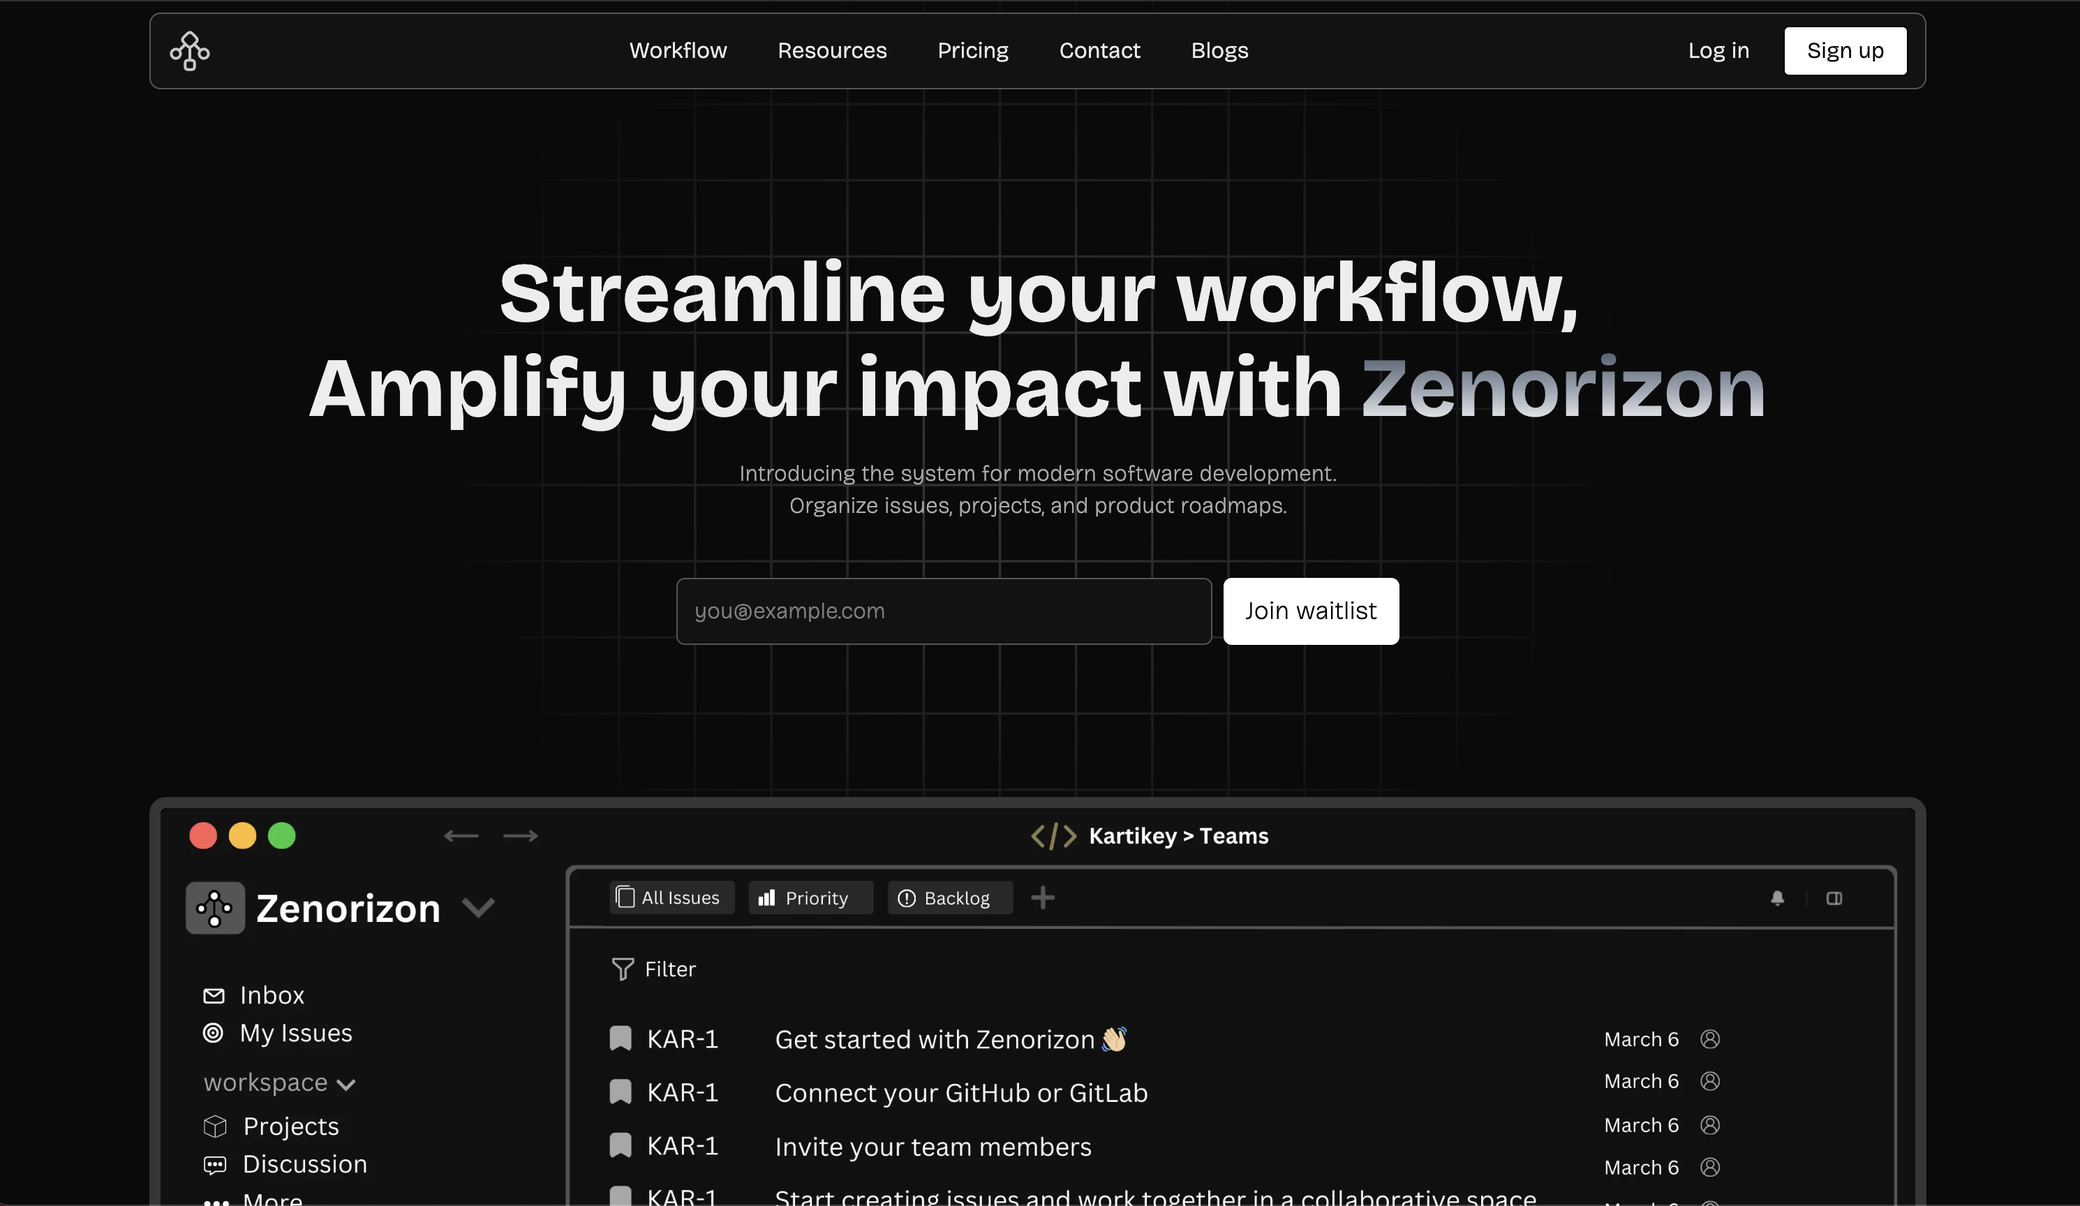
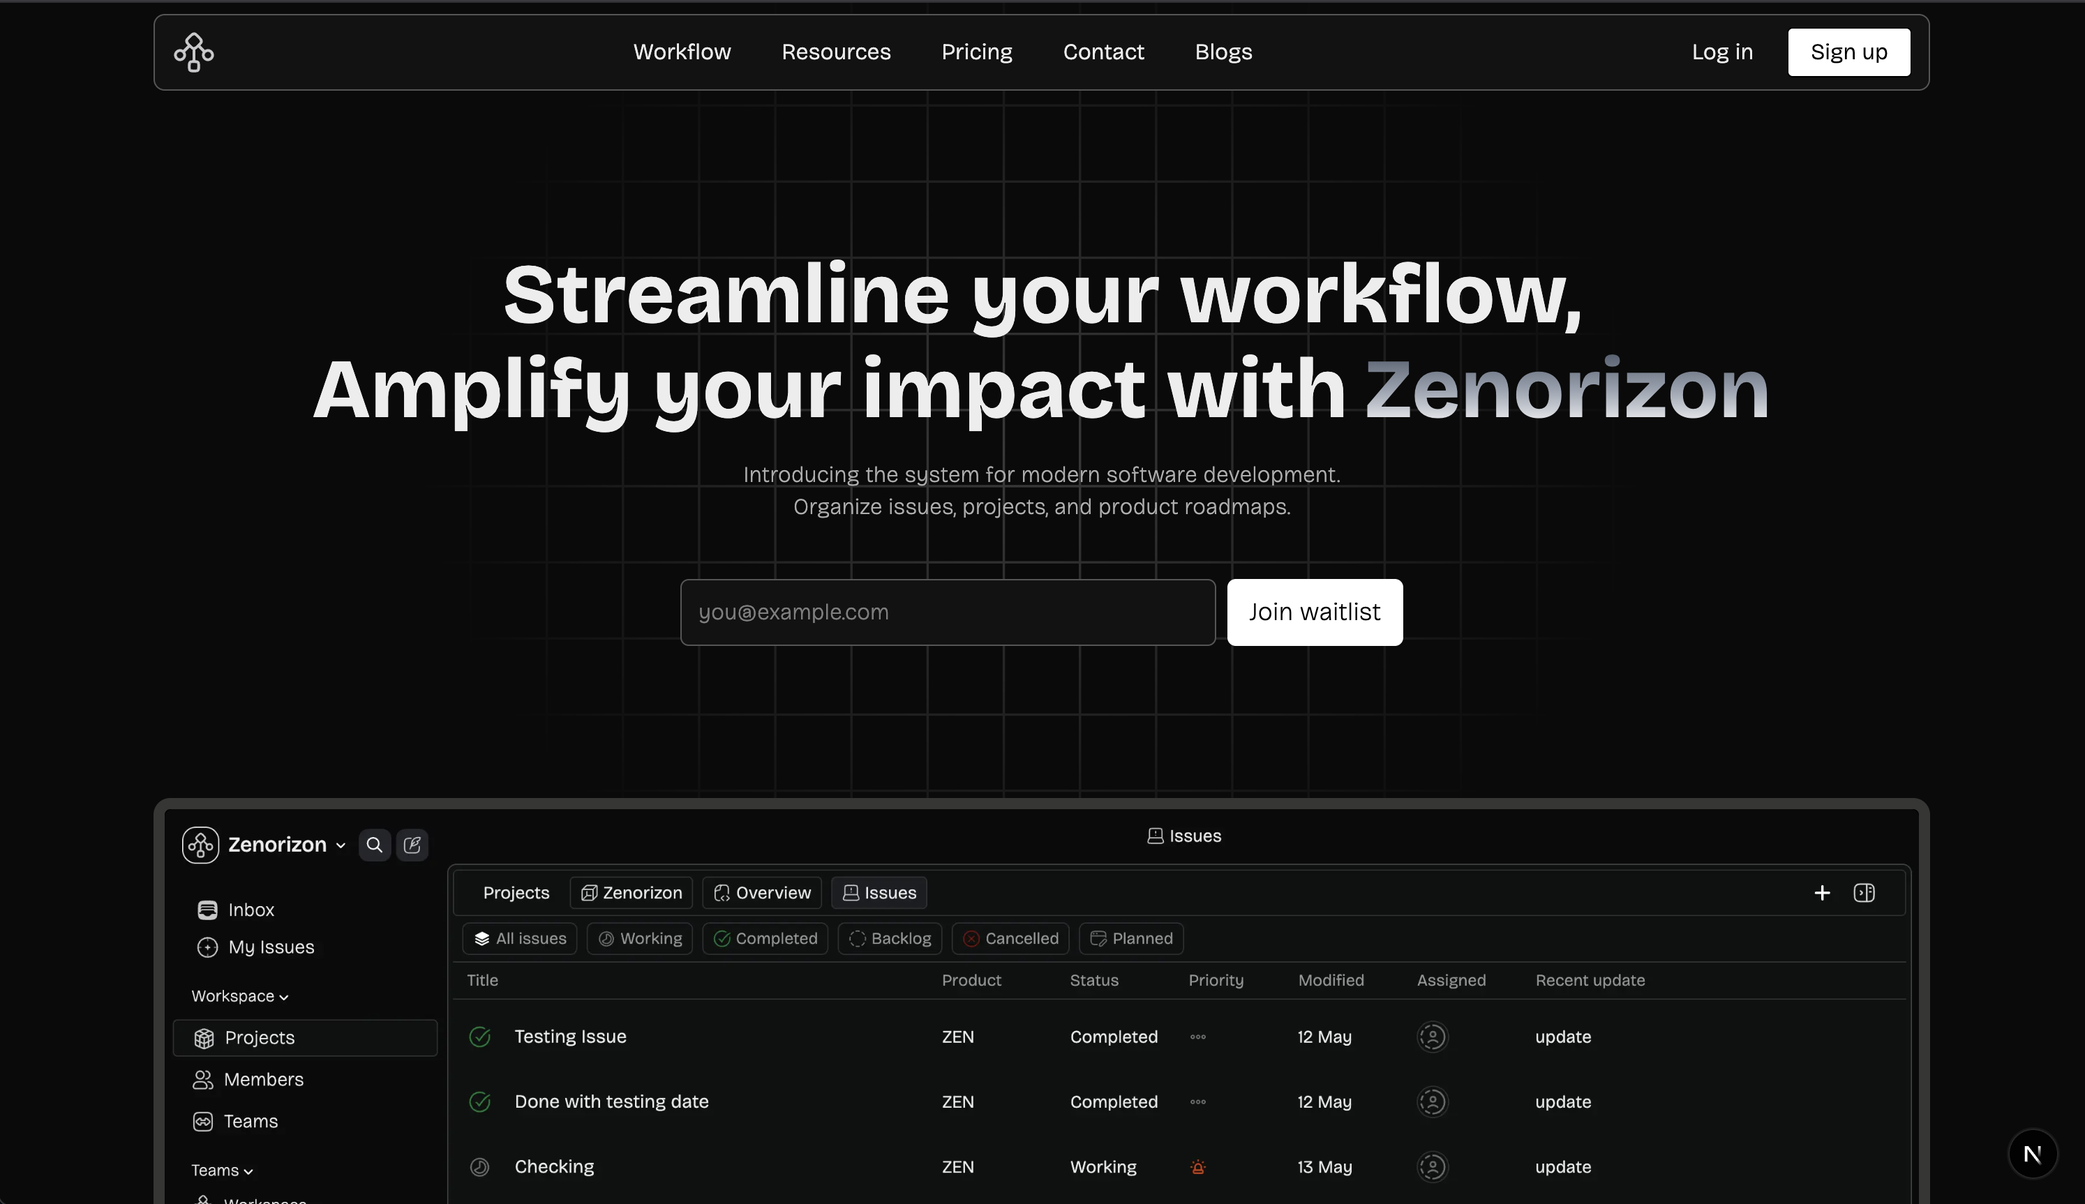
updated OG | modified issues

diff --git a/lib/icons.ts b/lib/icons.ts
@@ -178,8 +178,8 @@ export const RAW_ICONS = {
 
   Logout: `
       <svg width="23" height="22" viewBox="0 0 23 22" fill="none" xmlns="http://www.w3.org/2000/svg">
-        <path d="M2.39062 3.66537C2.39062 2.65284 3.21144 1.83203 4.22396 1.83203H10.6406C11.6531 1.83203 12.474 2.65284 12.474 3.66536V5.4987C12.474 6.00496 12.0636 6.41536 11.5573 6.41536C11.051 6.41536 10.6406 6.00496 10.6406 5.4987V3.66536L4.22396 3.66537V18.332H10.6406V16.4987C10.6406 15.9924 11.051 15.582 11.5573 15.582C12.0636 15.582 12.474 15.9924 12.474 16.4987V18.332C12.474 19.3446 11.6531 20.1654 10.6406 20.1654H4.22396C3.21144 20.1654 2.39062 19.3446 2.39062 18.332V3.66537Z" fill="black"/>
-        <path d="M17.5943 11.9154L15.4924 14.0172C15.1345 14.3752 15.1345 14.9556 15.4924 15.3135C15.8504 15.6715 16.4308 15.6715 16.7888 15.3135L20.3258 11.7765C20.7554 11.3469 20.7554 10.6505 20.3258 10.2209L16.7888 6.68385C16.4308 6.32587 15.8504 6.32587 15.4924 6.68385C15.1345 7.04183 15.1345 7.62223 15.4924 7.98021L17.5943 10.082L7.89063 10.082V11.9154L17.5943 11.9154Z" fill="black"/>
+        <path d="M2.39062 3.66537C2.39062 2.65284 3.21144 1.83203 4.22396 1.83203H10.6406C11.6531 1.83203 12.474 2.65284 12.474 3.66536V5.4987C12.474 6.00496 12.0636 6.41536 11.5573 6.41536C11.051 6.41536 10.6406 6.00496 10.6406 5.4987V3.66536L4.22396 3.66537V18.332H10.6406V16.4987C10.6406 15.9924 11.051 15.582 11.5573 15.582C12.0636 15.582 12.474 15.9924 12.474 16.4987V18.332C12.474 19.3446 11.6531 20.1654 10.6406 20.1654H4.22396C3.21144 20.1654 2.39062 19.3446 2.39062 18.332V3.66537Z" fill="white"/>
+        <path d="M17.5943 11.9154L15.4924 14.0172C15.1345 14.3752 15.1345 14.9556 15.4924 15.3135C15.8504 15.6715 16.4308 15.6715 16.7888 15.3135L20.3258 11.7765C20.7554 11.3469 20.7554 10.6505 20.3258 10.2209L16.7888 6.68385C16.4308 6.32587 15.8504 6.32587 15.4924 6.68385C15.1345 7.04183 15.1345 7.62223 15.4924 7.98021L17.5943 10.082L7.89063 10.082V11.9154L17.5943 11.9154Z" fill="white"/>
       </svg>
   `,
 
@@ -488,4 +488,6 @@ export const RAW_ICONS = {
   InactiveIssue: `<svg xmlns="http://www.w3.org/2000/svg" width="24" height="24" viewBox="0 0 24 24"><path fill="#6c6c6c" fill-rule="evenodd" d="M2.75 12.322c0-5.11 4.14-9.25 9.25-9.25s9.25 4.14 9.25 9.25s-4.14 9.25-9.25 9.25s-9.25-4.14-9.25-9.25M12 1.572c-5.94 0-10.75 4.81-10.75 10.75S6.06 23.072 12 23.072s10.75-4.81 10.75-10.75S17.94 1.572 12 1.572m-1.75 7.75c0-.41-.34-.75-.75-.75s-.75.34-.75.75v6c0 .41.34.75.75.75s.75-.34.75-.75zm5 0c0-.41-.34-.75-.75-.75s-.75.34-.75.75v6c0 .41.34.75.75.75s.75-.34.75-.75z" color="#6c6c6c"/></svg>`,
   PlannedIssue: `<svg xmlns="http://www.w3.org/2000/svg" width="24" height="24" viewBox="0 0 24 24"><path fill="#6c6c6c" d="M13.55 1.75H9.94c-1.83 0-3.29 0-4.43.15c-1.17.16-2.12.49-2.87 1.24S1.56 4.84 1.4 6.01c-.09.67-.12 1.46-.14 2.36c-.01.05-.01.09-.01.13s0 .07.01.1c-.01.57-.01 1.18-.01 1.84v1.12c0 1.83 0 3.29.15 4.43c.16 1.17.49 2.12 1.24 2.87s1.7 1.08 2.87 1.24c1.14.15 2.6.15 4.43.15H10c.41 0 .75-.34.75-.75s-.34-.75-.75-.75c-1.91 0-3.26 0-4.29-.14c-1.01-.14-1.58-.39-2.01-.81c-.42-.43-.67-1-.81-2.01c-.14-1.03-.14-2.38-.14-4.29V9.25h17.5V10c0 .41.34.75.75.75s.75-.34.75-.75V8.41c-.01-.9-.04-1.68-.12-2.33c-.12-1.04-.38-1.88-.96-2.59q-.3-.36-.66-.66c-.71-.58-1.55-.84-2.59-.96c-1-.12-2.27-.12-3.87-.12m6.68 6H2.78c.02-.59.05-1.09.11-1.54c.14-1.01.39-1.58.81-2.01c.43-.42 1-.67 2.01-.81c1.03-.14 2.38-.14 4.29-.14h3.5c1.66 0 2.84 0 3.75.11c.89.1 1.41.3 1.81.63q.255.195.45.45c.33.4.53.92.63 1.81c.05.43.08.92.09 1.5M4.5 5.5c0-.55.45-1 1-1h.01c.55 0 1 .45 1 1s-.45 1-1 1H5.5c-.55 0-1-.45-1-1m3.99 0c0-.55.45-1 1-1h.01c.55 0 1 .45 1 1s-.45 1-1 1h-.01c-.55 0-1-.45-1-1m13.22 6.91c-.88-.88-2.3-.88-3.18 0l-5.47 5.47c-.52.52-.81 1.22-.81 1.95v1.67c0 .41.34.75.75.75h1.67c.73 0 1.43-.29 1.95-.81l5.47-5.47c.88-.88.88-2.3 0-3.18zm-2.12 1.06c.29-.29.77-.29 1.06 0l.38.38c.29.29.29.77 0 1.06l-5.47 5.47c-.24.24-.56.37-.89.37h-.92v-.92c0-.33.13-.65.37-.89z" color="#6c6c6c"/></svg>`,
   Todo: `<svg xmlns="http://www.w3.org/2000/svg" width="24" height="24" viewBox="0 0 24 24"><circle cx="12" cy="12" r="10" fill="none" stroke="#6c6c6c" stroke-linecap="round" stroke-linejoin="round" stroke-width="1.5" color="#6c6c6c"/></svg>`,
+  User: `<svg xmlns="http://www.w3.org/2000/svg" width="24" height="24" viewBox="0 0 24 24"><g fill="none" stroke="#C9C9CC" stroke-linecap="round" stroke-linejoin="round" stroke-width="1.5" color="#C9C9CC"><path d="M2.5 12c0-4.478 0-6.718 1.391-8.109S7.521 2.5 12 2.5c4.478 0 6.718 0 8.109 1.391S21.5 7.521 21.5 12c0 4.478 0 6.718-1.391 8.109S16.479 21.5 12 21.5c-4.478 0-6.718 0-8.109-1.391S2.5 16.479 2.5 12"/><path d="M7.5 17c2.332-2.442 6.643-2.557 9 0m-2.005-7.5c0 1.38-1.12 2.5-2.503 2.5a2.5 2.5 0 0 1-2.504-2.5c0-1.38 1.12-2.5 2.504-2.5a2.5 2.5 0 0 1 2.503 2.5"/></g></svg>`,
+  AssignedUser: `<svg xmlns="http://www.w3.org/2000/svg" width="24" height="24" viewBox="0 0 24 24"><g fill="none" stroke="#6c6c6c" stroke-linecap="round" stroke-linejoin="round" stroke-width="1.5" color="#6c6c6c"><path d="M12 2c5.524 0 10 4.478 10 10s-4.476 10-10 10m-3-.5a11 11 0 0 1-3.277-1.754m0-15.492A11.3 11.3 0 0 1 9 2.5m-7 7.746a9.6 9.6 0 0 1 1.296-3.305M2 13.754a9.6 9.6 0 0 0 1.296 3.305"/><path d="M8 16.5c2.073-2.198 5.905-2.301 8 0m-1.782-6.75c0 1.243-.996 2.25-2.226 2.25s-2.225-1.007-2.225-2.25s.996-2.25 2.226-2.25s2.225 1.007 2.225 2.25"/></g></svg>`,
 };

diff --git a/components/workflow/sidebar/bottom-dock.tsx b/components/workflow/sidebar/bottom-dock.tsx
@@ -7,9 +7,9 @@ import { useState } from "react";
 type activePopupProp = "profile" | "workflow" | "features" | "teams" | "none";
 
 const dockOptionActive =
-  "flex items-center justify-center gap-x-1 bg-[#414141] h-10 rounded-full cursor-pointer";
+  "flex items-center justify-center gap-x-1 bg-[#2E3035] h-10 rounded-full cursor-pointer";
 const dockOptionInactive =
-  "flex items-center justify-center gap-x-1  h-10 rounded-full cursor-pointer";
+  "flex items-center justify-center gap-x-1  h-10 rounded-full cursor-pointer hover:bg-[#4b4b4b48] transition-all duration-200";
 
 export default function BottomDock() {
   const [windowActive, setWindowActive] = useState(false);
@@ -114,7 +114,7 @@ const ProfileWindow = ({
       {/* Close Button */}
       <button
         onClick={() => setClose("none")}
-        className="absolute top-1 right-1 rounded-lg bg-[#e2e2e4] hover:bg-[#d1d1d3] transition-colors duration-200"
+        className="absolute top-1 right-1 rounded-lg  hover:bg-[#2E3035] transition-colors duration-200"
       >
         <SVGIcon className="" svgString={RAW_ICONS.Close} />
       </button>
@@ -131,15 +131,20 @@ const WorkflowWindow = ({
       {/* Popup Content */}
       <p className="text-white ">Workflow</p>
       <div className="grid grid-cols-2 gap-x-2 gap-y-2 mt-2">
-        <DockOptions svg={RAW_ICONS.RubiksCube} optName="Projects" />
+        <DockOptions
+          svg={RAW_ICONS.RubiksCube}
+          optName="Projects"
+          redirectUri="/workflow/project"
+        />
         <DockOptions svg={RAW_ICONS.Members} optName="Members" />
         <DockOptions svg={RAW_ICONS.Team} optName="Teams" />
+        <DockOptions svg={RAW_ICONS.RubiksCube} optName="Issues" />
       </div>
 
       {/* Close Button */}
       <button
         onClick={() => setClose("none")}
-        className="absolute top-1 right-1 rounded-lg bg-[#e2e2e4] hover:bg-[#d1d1d3] transition-colors duration-200"
+        className="absolute top-1 right-1 rounded-lg  cursor-pointer duration-200"
       >
         <SVGIcon className="" svgString={RAW_ICONS.Close} />
       </button>
@@ -164,7 +169,7 @@ const FeaturesWindow = ({
       {/* Close Button */}
       <button
         onClick={() => setClose("none")}
-        className="absolute top-1 right-1 rounded-lg bg-[#e2e2e4] hover:bg-[#d1d1d3] transition-colors duration-200"
+        className="absolute top-1 right-1 rounded-lg  cursor-pointer duration-200"
       >
         <SVGIcon className="" svgString={RAW_ICONS.Close} />
       </button>
@@ -189,7 +194,7 @@ const TeamsWindow = ({
       {/* Close Button */}
       <button
         onClick={() => setClose("none")}
-        className="absolute top-1 right-1 rounded-lg bg-[#e2e2e4] hover:bg-[#d1d1d3] transition-colors duration-200"
+        className="absolute top-1 right-1 rounded-lg  cursor-pointer duration-200"
       >
         <SVGIcon className="" svgString={RAW_ICONS.Close} />
       </button>
@@ -207,7 +212,7 @@ function DockOptions({
   redirectUri?: string;
 }) {
   return (
-    <div className="border border-[#414141] h-8 flex px-4 rounded-lg items-center gap-x-2 hover:bg-[#1d1d21] transition-all duration-200">
+    <div className="border border-[#414141] h-8 flex px-4 rounded-lg items-center gap-x-2 hover:bg-[#1d1d21] transition-all duration-200 cursor-pointer">
       <div className="">
         <SVGIcon className="flex w-5" svgString={svg} />
       </div>

diff --git a/components/workflow/sidebar/bottom-options-tile.tsx b/components/workflow/sidebar/bottom-options-tile.tsx
@@ -1,11 +1,24 @@
 "use client";
 import { RAW_ICONS } from "@/lib/icons";
 import SVGIcon from "@/lib/svg-icon";
+import { signOut } from "next-auth/react";
 import Link from "next/link";
 import { title } from "process";
 import { useState } from "react";
+import { toast } from "sonner";
 
-const optionsArr = [
+const optionsArr: {
+  title: string;
+  svg: string;
+  redirectHref: string;
+  openToNewPage: boolean;
+}[] = [
+  {
+    title: "Profile",
+    svg: RAW_ICONS.User,
+    redirectHref: "/profile",
+    openToNewPage: false,
+  },
   {
     title: "Search for help…",
     svg: RAW_ICONS.Search,
@@ -48,7 +61,7 @@ export const BottomOptionsTile = () => {
 
       {/* Popup */}
       <div
-        className={`absolute bottom-16 left-4 w-52 h-72 bg-[rgba(0,0,0,0.1)] backdrop-blur-lg border border-[#414141] rounded-xl shadow-lg p-1 transition-all duration-300 ${
+        className={`absolute bottom-16 left-4 w-52 h-fit bg-[rgba(0,0,0,0.1)] backdrop-blur-lg border border-[#414141] rounded-xl shadow-lg p-1 transition-all duration-300 ${
           optionsOpen
             ? "opacity-100 scale-100"
             : "opacity-0 scale-95 pointer-events-none"
@@ -65,6 +78,7 @@ export const BottomOptionsTile = () => {
             />
           );
         })}
+        <LogoutBtn />
       </div>
     </>
   );
@@ -85,7 +99,7 @@ const BottomOptionLabel = ({
     <Link
       href={redirectHref}
       target={openToNewPage ? "_blank" : "_self"}
-      className="rounded-lg flex items-center h-9 px-2 gap-x-2 hover:bg-[#1f1f22] transition-all duration-300  border border-transparent hover:border-[#4b4b4b] "
+      className="rounded-lg flex items-center h-9 px-2 gap-x-2 hover:bg-[#4b4b4b48] transition-all duration-300  border border-transparent hover:border-[#4b4b4b] "
     >
       <SVGIcon className="flex w-4" svgString={svg} />
       <p>{title}</p>
@@ -93,5 +107,29 @@ const BottomOptionLabel = ({
         <SVGIcon className="flex w-4" svgString={RAW_ICONS.Arrow45} />
       )}
     </Link>
+  );
+};
+
+const LogoutBtn = () => {
+  const [signoutLoading, setSignoutLoading] = useState(false);
+  const handleSignout = () => {
+    try {
+      setSignoutLoading(true);
+      signOut();
+    } catch (error) {
+      toast.error(`Got an error while signing out: ${error}`);
+    } finally {
+      setSignoutLoading(false);
+      toast.info("Logged out!");
+    }
+  };
+  return (
+    <div
+      onClick={handleSignout}
+      className="rounded-lg flex items-center h-9 px-2 gap-x-2 hover:bg-[#a52f0b28] transition-all duration-300  border border-[#421C13] hover:border-[#A5300B] cursor-pointer"
+    >
+      <SVGIcon className="flex w-4" svgString={RAW_ICONS.Logout} />
+      <p>Log out</p>
+    </div>
   );
 };

diff --git a/components/workflow/issues/issue-label.tsx b/components/workflow/issues/issue-label.tsx
@@ -148,7 +148,11 @@ export default function IssueLabel({
       <div className="col-span-1 relative " ref={dropdownRef}>
         <div
           className="w-fit flex items-center  px-2 h-8 rounded hover:bg-[#212227] transition-all duration-300 cursor-pointer"
-          onClick={() => setShowOptionsDropdown("status")}
+          onClick={() =>
+            setShowOptionsDropdown(
+              showOptionsDropdown == "status" ? false : "status"
+            )
+          }
         >
           {status}
         </div>
@@ -170,12 +174,16 @@ export default function IssueLabel({
       <div className="col-span-1 relative " ref={dropdownRef}>
         <div
           className="flex items-center justify-center h-8 w-8 rounded hover:bg-[#212227] transition-all duration-300 cursor-pointer"
-          onClick={() => setShowOptionsDropdown("priority")}
+          onClick={() =>
+            setShowOptionsDropdown(
+              showOptionsDropdown == "priority" ? false : "priority"
+            )
+          }
         >
           {renderPrioritySvg(selectedPriorityOption)}
         </div>
         {showOptionsDropdown == "priority" && (
-          <div className="absolute top-full left-0 bg-[#0A0A0A] border border-[#414141] rounded shadow-lg mt-1 z-10">
+          <div className="absolute w-36 top-full left-0 bg-[rgba(0,0,0,0.1)] backdrop-blur-lg border border-[#414141] rounded-lg shadow-lg mt-1 z-10">
             {priorityOptionsArray.map((option, key) => (
               <div
                 key={key}
@@ -193,7 +201,9 @@ export default function IssueLabel({
       <div title={fullDate} className="col-span-1 cursor-pointer ">
         {shortDate}
       </div>
-      <div className="col-span-1 border border-[#2C2E33] h-8 w-8 rounded-full"></div>
+      <div className="col-span-1 border border-[#2C2E33] h-7 w-7 rounded-full flex items-center justify-center hover:bg-[#4141414f] transition-all duration-200">
+        <SVGIcon className="flex w-6" svgString={RAW_ICONS.AssignedUser} />
+      </div>
       <p className="col-span-3">update</p>
     </div>
   );

diff --git a/components/workflow/issues/create-issue-window.tsx b/components/workflow/issues/create-issue-window.tsx
@@ -99,12 +99,16 @@ export const CreateIssueWindow = ({
             <div className=" relative" ref={dropdownRef}>
               <div
                 className="flex border border-[#6A6C75] bg-[#1f2025] items-center text-sm justify-center h-7 w-8 rounded-md hover:bg-[#212227] transition-all duration-300 cursor-pointer"
-                onClick={() => setShowOptionsDropdown("priority")}
+                onClick={() =>
+                  setShowOptionsDropdown(
+                    showOptionsDropdown == "priority" ? false : "priority"
+                  )
+                }
               >
                 {renderPrioritySvg(selectedPriorityOption)}
               </div>
               {showOptionsDropdown == "priority" && (
-                <div className="absolute w-28 top-full left-0 bg-[#0A0A0A] border border-[#414141] rounded shadow-lg mt-1 z-10">
+                <div className="absolute w-36 top-full left-0 bg-[rgba(0,0,0,0.1)] backdrop-blur-lg border border-[#414141] rounded-lg shadow-lg mt-1 z-10">
                   {PriorityOptionsArray.map((option, key) => (
                     <div
                       key={key}
@@ -122,7 +126,11 @@ export const CreateIssueWindow = ({
             <div className="col-span-1 relative" ref={dropdownRef}>
               <div
                 className="flex border border-[#6A6C75] bg-[#1f2025] items-center text-sm justify-center h-7 w-8 rounded-md hover:bg-[#212227] transition-all duration-300 cursor-pointer"
-                onClick={() => setShowOptionsDropdown("status")}
+                onClick={() =>
+                  setShowOptionsDropdown(
+                    showOptionsDropdown == "status" ? false : "status"
+                  )
+                }
               >
                 <RenderStatusSvg status={selectedStatusOption} />
               </div>

diff --git a/app/workflow/page.tsx b/app/workflow/page.tsx
@@ -1,0 +1,28 @@
+"use client";
+
+import { RAW_ICONS } from "@/lib/icons";
+import SVGIcon from "@/lib/svg-icon";
+
+export default function Workspace() {
+  return (
+    <>
+      <div className="w-full  bg-[#0A0A0A] h-screen flex flex-col">
+        <div className="flex justify-center items-center gap-x-1 h-10 md:h-12">
+          <SVGIcon
+            className="flex w-3 sm:w-4"
+            svgString={RAW_ICONS.RubiksCube}
+          />
+          <p className="text-[13px] sm:text-[15px]">Workspace</p>
+        </div>
+        <div className="flex-grow border border-[#414141] bg-[#0F1111] rounded-lg ml-2 md:ml-0 mr-2 mb-2 p-1">
+          <div className="border h-10 rounded border-[#2d3036] flex items-center justify-between px-4">
+            <div className=" flex gap-x-2 md:gap-x-4 items-center ">
+              {/* top label content */}
+            </div>
+          </div>
+          {/* main content */}
+        </div>
+      </div>
+    </>
+  );
+}

diff --git a/components/landing/hero.tsx b/components/landing/hero.tsx
@@ -4,11 +4,11 @@ import axios from "axios";
 import { useState } from "react";
 import { toast } from "sonner";
 import { z } from "zod";
-import { TextAnimate } from "../magicui/text-animate";
+
 import { BlurFade } from "../magicui/blur-fade";
 import Image from "next/image";
-import homebannerImg from "@/public/banner/homebanner.png";
-import { HyperText } from "../magicui/hyper-text";
+import homebannerImg from "@/public/banner/homebannertwo.png";
+
 import grid from "@/public/assets/bg/grid.svg";
 import spinner from "@/public/assets/loader/spinner.svg";
 
@@ -62,7 +62,7 @@ export default function Hero() {
     event: React.KeyboardEvent<HTMLInputElement>
   ): void => {
     if (event.key === "Enter" && !isLoading) {
-      // waitListCall();
+      waitListCall();
     }
   };
 

diff --git a/components/landing/feature-card.tsx b/components/landing/feature-card.tsx
@@ -11,7 +11,7 @@ export const FeatureCard = ({
   description?: string;
 }) => {
   return (
-    <div className="relative w-full h-full overflow-hidden rounded-4xl cursor-pointer bg-black border border-transparent hover:border-[#232323] transition-all duration-300 group">
+    <div className="relative w-full h-full overflow-hidden rounded-4xl cursor-pointer bg-black border border-[#1f1f1f] hover:border-[#2e2e2e] transition-all duration-300 group">
       {/* Background Image with Next.js Image component */}
       <div className="absolute inset-0 w-full h-full">
         {typeof img === "string" ? (

diff --git a/components/landing/mobile-feature-card.tsx b/components/landing/mobile-feature-card.tsx
@@ -13,7 +13,7 @@ export const MobileFeatureCard = ({
 }) => {
   return (
     <div
-      className="relative w-full h-full overflow-hidden rounded-4xl cursor-pointer border border-transparent hover:border-[#565555] transition-all duration-300 group"
+      className="relative w-full h-full overflow-hidden rounded-4xl cursor-pointer border border-[#1f1f1f] hover:border-[#2e2e2e]  transition-all duration-300 group"
       role="article"
       aria-labelledby={
         heading
